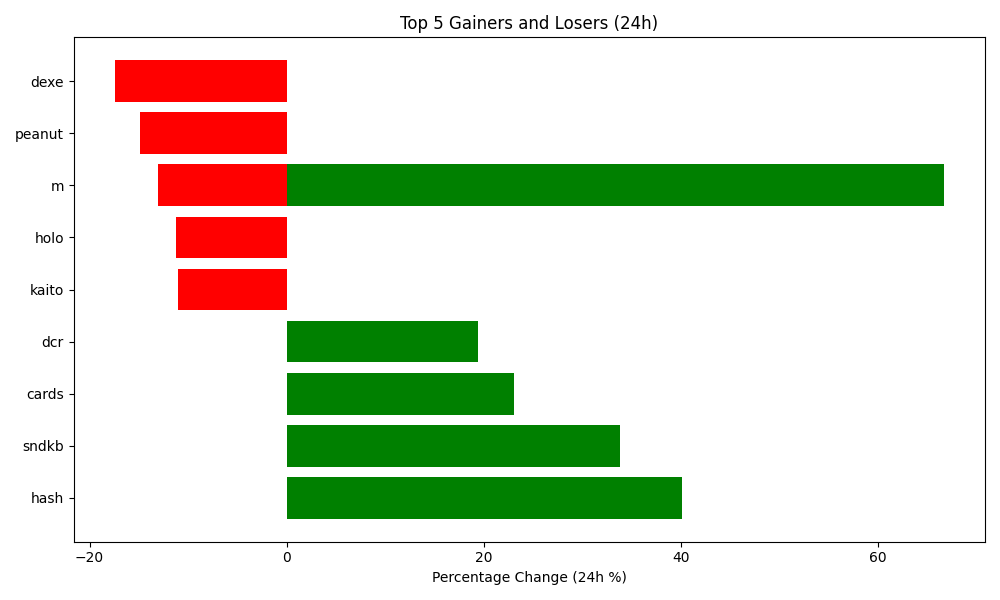
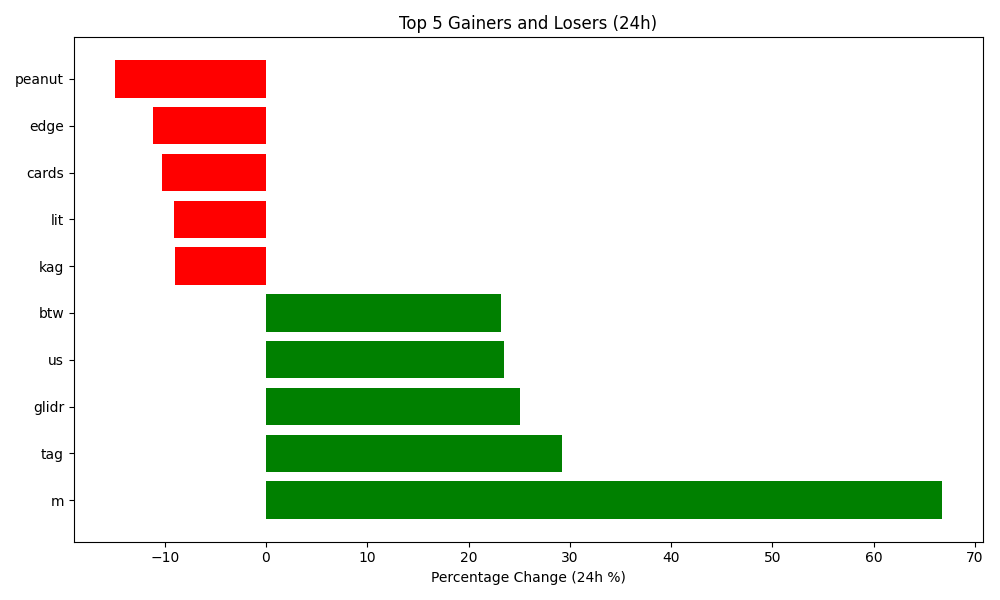
Auto-update crypto data and plot

diff --git a/README.md b/README.md
@@ -4,7 +4,7 @@ Author: Hitesh Agrawal
 This repository automatically tracks the top 5 gaining, top 5 losing, and top 5 highest volume cryptocurrencies in the last 24 hours using the CoinGecko API, Python, Matplotlib, and GitHub Actions updates the below content everyday at midnight.
 
 <!-- START_DYNAMIC_CONTENT -->
-Last updated: 2026-07-31 02:04 UTC
+Last updated: 2026-08-01 02:06 UTC
 
 ![Crypto Movers Plot](crypto_movers_plot.png)
 
@@ -13,32 +13,32 @@ Last updated: 2026-07-31 02:04 UTC
 | Rank | Coin | Price Change (24h %) | Volume (USD) | Current Price (USD) |
 | :--: | :--: | :------------------: | :----------: | :-----------------: |
 | 1 | m | 66.70% | $383,597 | $1.2900 |
-| 2 | hash | 40.10% | $8,796 | $0.0095 |
-| 3 | sndkb | 33.90% | $227,902,162 | $1,365.0800 |
-| 4 | cards | 23.10% | $4,406,592 | $0.1597 |
-| 5 | dcr | 19.40% | $4,059,220 | $13.7300 |
+| 2 | tag | 29.20% | $7,183,371 | $0.0014 |
+| 3 | glidr | 25.10% | $57,150 | $1.2700 |
+| 4 | us | 23.50% | $6,710,952 | $0.0555 |
+| 5 | btw | 23.20% | $7,855,924 | $0.1052 |
 
 
 **👇 Top 5 Losers (24h)**
 
 | Rank | Coin | Price Change (24h %) | Volume (USD) | Current Price (USD) |
 | :--: | :--: | :------------------: | :----------: | :-----------------: |
-| 1 | dexe | -17.40% | $60,133,628 | $2.2400 |
-| 2 | peanut | -14.90% | $2 | $0.0006 |
-| 3 | m | -13.10% | $9,682,309 | $0.9904 |
-| 4 | holo | -11.20% | $17,277,720 | $0.0696 |
-| 5 | kaito | -11.00% | $119,734,270 | $1.1200 |
+| 1 | peanut | -14.90% | $2 | $0.0006 |
+| 2 | edge | -11.20% | $4,048,375 | $0.3609 |
+| 3 | cards | -10.30% | $1,774,352 | $0.1454 |
+| 4 | lit | -9.10% | $34,395,110 | $2.0800 |
+| 5 | kag | -9.00% | $176,270 | $52.6800 |
 
 
 **💎 Top 5 by Trade Volume (24h)**
 
 | Rank | Coin | Price Change (24h %) | Volume (USD) | Current Price (USD) |
 | :--: | :--: | :------------------: | :----------: | :-----------------: |
-| 1 | usdt | 0.00% | $41,302,610,939 | $0.9993 |
-| 2 | btc | 1.40% | $26,652,780,986 | $64,503.0000 |
-| 3 | usdc | 0.00% | $10,419,509,727 | $0.9997 |
-| 4 | eth | 0.60% | $7,236,255,099 | $1,908.5300 |
-| 5 | sol | 1.50% | $1,417,701,092 | $74.3600 |
+| 1 | usdt | 0.00% | $43,249,671,895 | $0.9991 |
+| 2 | btc | -3.00% | $28,459,836,832 | $62,930.0000 |
+| 3 | usdc | 0.00% | $11,070,617,243 | $0.9996 |
+| 4 | eth | -2.90% | $8,399,392,967 | $1,865.5400 |
+| 5 | sol | -2.30% | $1,470,677,696 | $72.9800 |
 
 
 <!-- END_DYNAMIC_CONTENT -->
